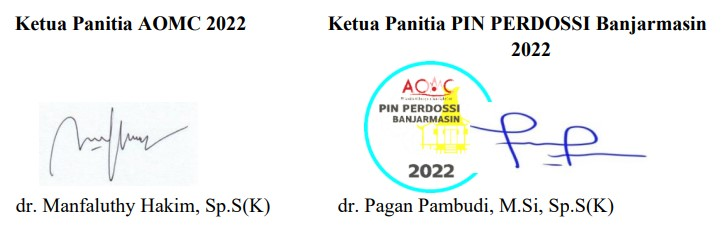
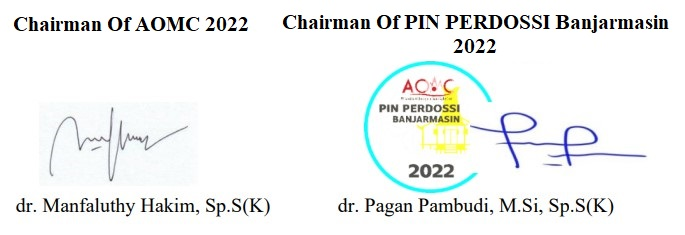
perbaikan data home dan invoice translasi

diff --git a/application/views/template/invoice.php b/application/views/template/invoice.php
@@ -65,13 +65,13 @@ $payment = Settings_m::manualPayment(false);
 					<tbody>
 						<tr>
 							<td>
-								<p>Yth. <?= $member->sponsor; ?></p>
-								<p style="text-align:justify;text-justify:inter-word;">Berikut kami kirimkan tagihan pembayaran sebagai bentuk keterangan resmi. Mohon segera melunasi pembayaran ini
+								<p>Dear <?= $member->sponsor; ?></p>
+								<p style="text-align:justify;text-justify:inter-word;">Here we send the bill of payment as a form of official statement. Please pay off this payment immediately
 
 									<?php if (is_array($payment) && count($payment) == 1 && $transaction->channel == "MANUAL TRANSFER") : ?>
-										melalui Bank <?= $payment[0]['bank']; ?> No <?= $payment[0]['no_rekening']; ?> a.n <?= $payment[0]['holder']; ?>
+										via Bank <?= $payment[0]['bank']; ?> No <?= $payment[0]['no_rekening']; ?> a.n <?= $payment[0]['holder']; ?>
 									<?php elseif (is_array($payment) && count($payment) > 1) : ?>
-										melalui :
+										via :
 								<ul>
 									<?php foreach ($payment as $list) : ?>
 										<li>Bank <?= $list['bank']; ?> No <?= $list['no_rekening']; ?> a.n <?= $list['holder']; ?></li>
@@ -87,7 +87,7 @@ $payment = Settings_m::manualPayment(false);
 									<tbody>
 										<tr>
 											<td style="padding:5px!important" valign="top" width="170">
-												Tanggal
+												Order Date
 											</td>
 											<td width="10">:</td>
 											<td style="padding:5px!important">
@@ -109,7 +109,7 @@ $payment = Settings_m::manualPayment(false);
 										</tr>
 										<tr>
 											<td style="padding:5px!important" valign="top" width="170">
-												Nama Peserta
+												Name
 											</td>
 											<td>:</td>
 											<td style="padding:5px!important">
@@ -158,7 +158,7 @@ $payment = Settings_m::manualPayment(false);
 										<?php endif; ?>
 										<tr>
 											<td style="padding:5px!important" valign="top" width="170">
-												Acara yang diikuti
+												Followed event
 											</td>
 											<td>:</td>
 											<td style="padding:5px!important;vertical-align: top">
@@ -176,7 +176,7 @@ $payment = Settings_m::manualPayment(false);
 										</tr>
 										<tr>
 											<td style="padding:5px!important" valign="top" width="170">
-												Total Harga
+												Amount Price
 											</td>
 											<td>:</td>
 											<td style="padding:5px!important">
@@ -185,7 +185,7 @@ $payment = Settings_m::manualPayment(false);
 										</tr>
 										<tr>
 											<td style="padding:5px!important" valign="top" width="170">
-												Metode Pembayaran
+												Payment Method
 											</td>
 											<td>:</td>
 											<td style="padding:5px!important">
@@ -194,7 +194,7 @@ $payment = Settings_m::manualPayment(false);
 										</tr>
 										<tr>
 											<td colspan="3">
-												<span style="font-size:9pt">*Total Harga diatas belum termasuk biaya administrasi payment online bank</small>
+												<span style="font-size:9pt">*The amount price above does not include online bank payment administration fees</small>
 											</td>
 										</tr>
 									</tbody>
@@ -209,8 +209,7 @@ $payment = Settings_m::manualPayment(false);
 						<tr style="font-size:14px">
 							<td>
 								<p style="text-align:justify;text-justify:inter-word;font-size:20px">
-									Pembayaran yang tidak sesuai atau transaksi palsu akan secara otomatis terhapus oleh sistem,
-									dan peserta harus melakukan registrasi ulang. Terimakasih
+									Inappropriate payments or fake transactions will be automatically deleted by the system,and participants must re-register. Thank you
 								</p>
 								<p></p>
 								<?php

diff --git a/application/views/template/official_payment_proof.php b/application/views/template/official_payment_proof.php
@@ -52,16 +52,16 @@ header('Content-Type: text/html');
 	<tr style="height:30px">
 		<td style="text-align:center;height:30px">
 			<p>
-				<span style="font-family:times new roman,times,serif;font-size:12pt"><strong>BUKTI REGISTRASI - KUITANSI</strong></span>
+				<span style="font-family:times new roman,times,serif;font-size:12pt"><strong>PAYMENT AND REGISTRATION PROOF - RECEIPT</strong></span>
 			</p>
 			<p style="text-align:right">
 				<span style="font-family:times new roman,times,serif;font-size:12pt;text-align:start;background-color:#ffffff"><?= date("d F Y", strtotime($transaction->updated_at)); ?></span>
 			</p>
 			<p style="text-align:left">
-				Yth. <?= $member->sponsor; ?>
+				Dear. <?= $member->sponsor; ?>
 			</p>
 			<p style="text-align:justify;text-justify:inter-word;">
-				Terimakasih atas registrasi dan pembayaran yang dilakukan untuk berpartisipasi dalam acara <?= Settings_m::getSetting("text_payment_proof"); ?>. Berikut adalah rincian registrasi dan pembayaran:
+				Thank you for your registration and participation in the event <?= Settings_m::getSetting("text_payment_proof"); ?>. Here are the registration and payment details:
 			</p>
 		</td>
 	</tr>
@@ -74,7 +74,7 @@ header('Content-Type: text/html');
 					<td><?= $transaction->id; ?></td>
 				</tr>
 				<tr>
-					<th>Nama Peserta</th>
+					<th>Name</th>
 					<td>:</td>
 					<td><?= $member->fullname; ?></td>
 				</tr>
@@ -96,7 +96,7 @@ header('Content-Type: text/html');
 					</tr>
 				<?php endif; ?>
 				<tr>
-					<th>Acara yang diikuti</th>
+					<th>Followed Event</th>
 					<td>:</td>
 					<td>
 						<ul style="margin: 0px;padding-left:15px">
@@ -111,13 +111,13 @@ header('Content-Type: text/html');
 					</td>
 				</tr>
 				<tr>
-					<th>Total Harga</th>
+					<th>Amount Price</th>
 					<td>:</td>
 					<td>Rp <?= number_format($total, 2, ",", "."); ?>*</td>
 				</tr>
 				<tr>
 					<th>
-						Metode Pembayaran
+						Payment Method
 					</th>
 					<td>:</td>
 					<td>
@@ -126,7 +126,7 @@ header('Content-Type: text/html');
 				</tr>
 				<tr>
 					<td colspan="3">
-						<span style="font-size:9pt">*Total Harga diatas belum termasuk biaya administrasi payment online bank</small>
+						<span style="font-size:9pt">*The amount price above does not include online bank payment administration fees</small>
 					</td>
 				</tr>
 			</table>
@@ -135,8 +135,7 @@ header('Content-Type: text/html');
 	<tr style="height:20px">
 		<td style="height:20px">
 			<p style="text-align:justify;text-justify:inter-word;">
-				Bukti pembayaran (kuitansi) ini merupakan tanda bukti yang sah dan dipergunakan sebagaimana mestinya. Peserta wajib menunjukkan kuitansi ini kepada panitia pada saat registrasi ulang. Terimakasih
-			</p> <br /><br />
+			This payment proof (receipt) is a valid proof and is used properly. Participants must show this receipt to the committee at the time of re-registration. Thank you</p> <br /><br />
 		</td>
 	</tr>
 	<tr>

diff --git a/application/views/site/gigaland/home.php b/application/views/site/gigaland/home.php
@@ -281,9 +281,9 @@
                 <div class="row align-items-center wow fadeInRight" data-wow-delay=".5s">
                     <div class="col-lg-6">
                         <h2 style="color:#F4AD39;">Abstract Countdown<br>
-                            <h5 style="color:#F4AD39;">(November 16, 2021)</h5>
+                            <h5 style="color:#F4AD39;">(<?= date_format($papercountdown,"F d, Y") ;?>)</h5>
                         </h2>
-                        <div class="de_countdown text-center" data-year="2022" data-month="1" data-day="16" data-hour="8"></div>
+                        <div class="de_countdown text-center" data-year="<?= date_format($papercountdown,"Y") ;?>" data-month="<?= date_format($papercountdown,"m") ;?>" data-day="<?= date_format($papercountdown,"d") ;?>" data-hour="<?= date_format($papercountdown,"H") ;?>"></div>
                         <div class="spacer-10"></div>
                         <div class="d-buttons">
                             <a href="#" class="btn-main" data-bs-toggle="modal" data-bs-target="#place_a_bid" style="background-color:#F4AD39; color:black;">Template Journal</a>
@@ -291,9 +291,9 @@
                     </div>
                     <div class="col-lg-6">
                         <h2 style="color:#F4AD39;">Event Coundown<br>
-                            <h5 style="color:#F4AD39;">(November 16, 2021)</h5>
+                            <h5 style="color:#F4AD39;">(<?= date_format($eventcountdown,"F d, Y") ;?>)</h5>
                         </h2>
-                        <div class="de_countdown text-center" data-year="2022" data-month="1" data-day="16" data-hour="8"></div>
+                        <div class="de_countdown text-center"  data-year="<?= date_format($eventcountdown,"Y") ;?>" data-month="<?= date_format($eventcountdown,"m") ;?>" data-day="<?= date_format($eventcountdown,"d") ;?>" data-hour="<?= date_format($eventcountdown,"H") ;?>"></div>
                         <div class="spacer-10"></div>
                         <div class="d-buttons">
                             <a href="#" class="btn-main" data-bs-toggle="modal" data-bs-target="#place_a_bid" style="background-color:#F4AD39; color:black;">Event Schedule</a>

diff --git a/application/controllers/Site.php b/application/controllers/Site.php
@@ -44,9 +44,9 @@ class Site extends MY_Controller
         $data['participant'] = $countparticipant;
 
         $eventcountdown = $this->SettingM->eventcountdown();
-        $data['eventcountdown'] = $eventcountdown;
+        $data['eventcountdown'] = $eventcountdown ? date_create($eventcountdown->value) : date("Y-m-d H:i:s");
         $papercountdown = $this->SettingM->papercountdown();
-        $data['papercountdown'] = $papercountdown;
+        $data['papercountdown'] = $papercountdown ? date_create($papercountdown->value) : date("Y-m-d H:i:s");;
         $this->load->view('site/' . $this->theme . '/home', $data);
     }
 

diff --git a/application/models/Settings_m.php b/application/models/Settings_m.php
@@ -124,7 +124,7 @@ class Settings_m extends MY_Model
         $this->db->select('*');
         $this->db->from('settings');
         $this->db->where('name', 'event_countdown');
-        $result = $this->db->get()->result();
+        $result = $this->db->get()->row();
         return $result;
     }
 
@@ -133,7 +133,7 @@ class Settings_m extends MY_Model
         $this->db->select('*');
         $this->db->from('settings');
         $this->db->where('name', 'paper_deadline');
-        $result = $this->db->get()->result();
+        $result = $this->db->get()->row();
         return $result;
     }
 }

diff --git a/application/views/template/invoice_payment_signature.php b/application/views/template/invoice_payment_signature.php
@@ -4,6 +4,6 @@
 	<?= Settings_m::getSetting('ketua_panitia'); ?>
 </p> -->
 <p style="font-size: 18px;text-align:center">
-	Hormat Kami,<br />
+	Yours truly,<br />
 	<img style="width:;height:200px" src="<?= base_url("themes/uploads/ttd_cap.jpg"); ?>">
 </p>
